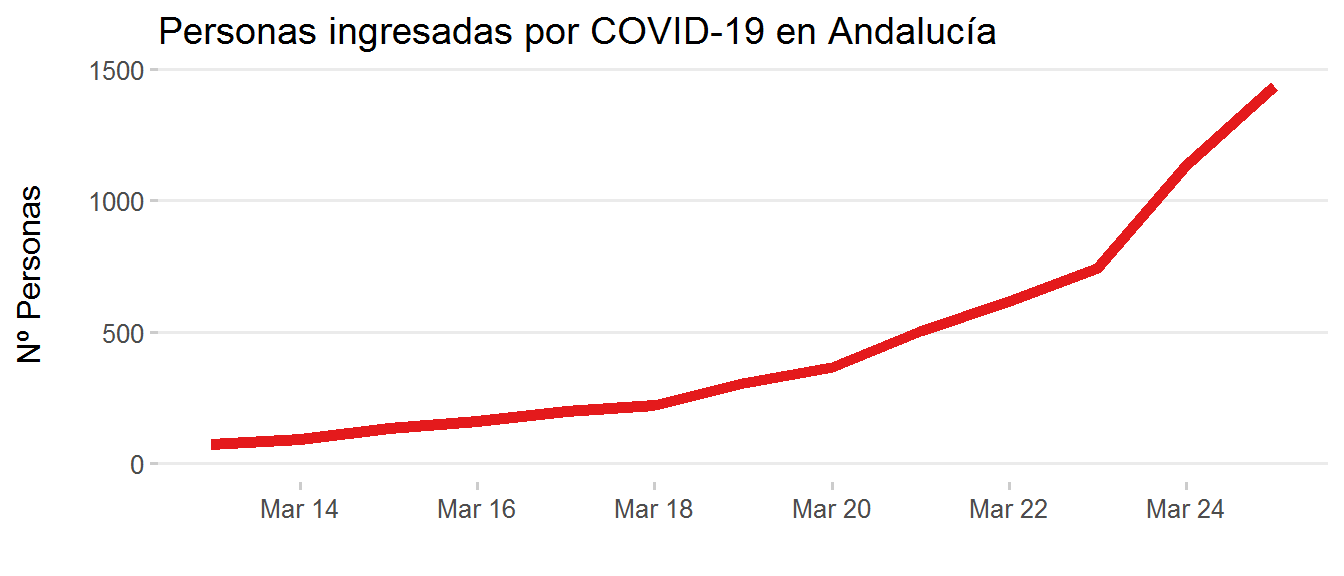
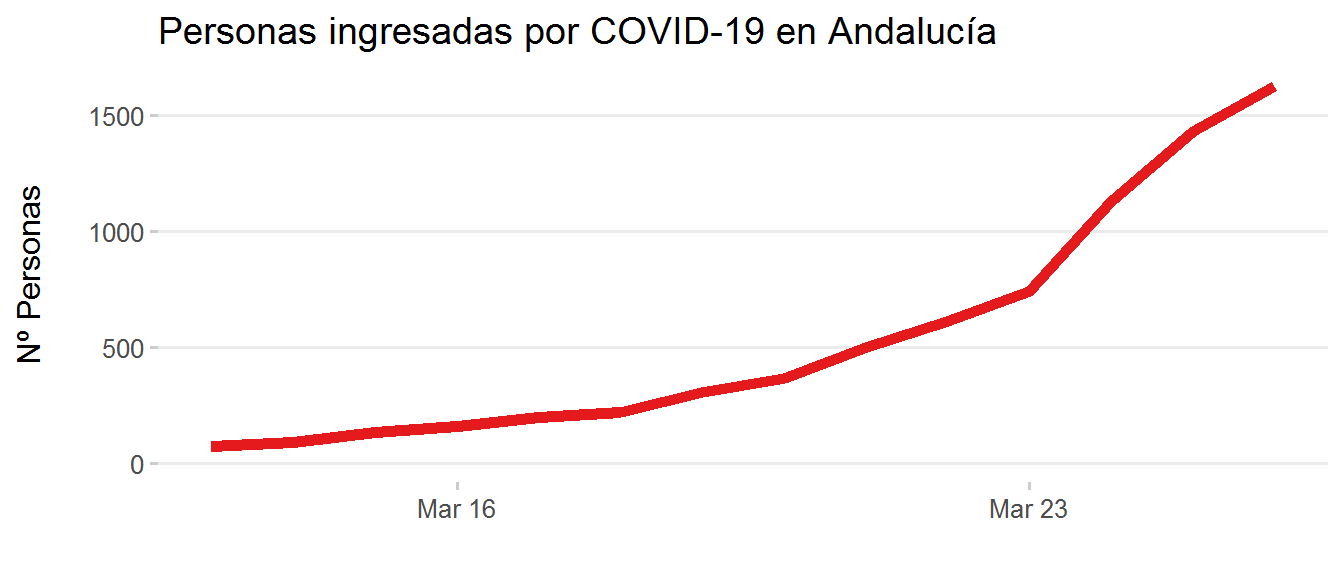
update 26 Marzo

diff --git a/evolucion-coronavirus-andalucia.html b/evolucion-coronavirus-andalucia.html
@@ -194,7 +194,7 @@ summary {
 <p><br></p>
 <p>Aquí se visualiza la evolución de la enfermedad del coronavirus (COVID-19) en Andalucía, según los <a href="https://www.juntadeandalucia.es/organismos/saludyfamilias/areas/salud-vida/paginas/Nuevo_Coronavirus.html">datos oficiales ofrecidos por la Consejería de Salud y Familias</a>. A diferencia de otras visualizaciones más extendidas, que representan datos acumulados en el tiempo, aquí se enfatizan las <strong>variaciones diarias absolutas (no acumuladas)</strong> en número de casos detectados, personas ingresadas y fallecimientos.</p>
 <p>Los datos se actualizan diariamente. Tanto los datos como el código empleado para generar estas visualizaciones está disponible <a href="https://github.com/Pakillo/COVID19-Andalucia">aquí</a>.</p>
-<p>Última actualización: 2020-03-25</p>
+<p>Última actualización: 2020-03-27</p>
 <ul>
 <li><a href="#casos-detectados">Casos detectados</a></li>
 <li><a href="#personas-ingresadas-en-centros-sanitarios">Personas ingresadas en centros sanitarios</a></li>
